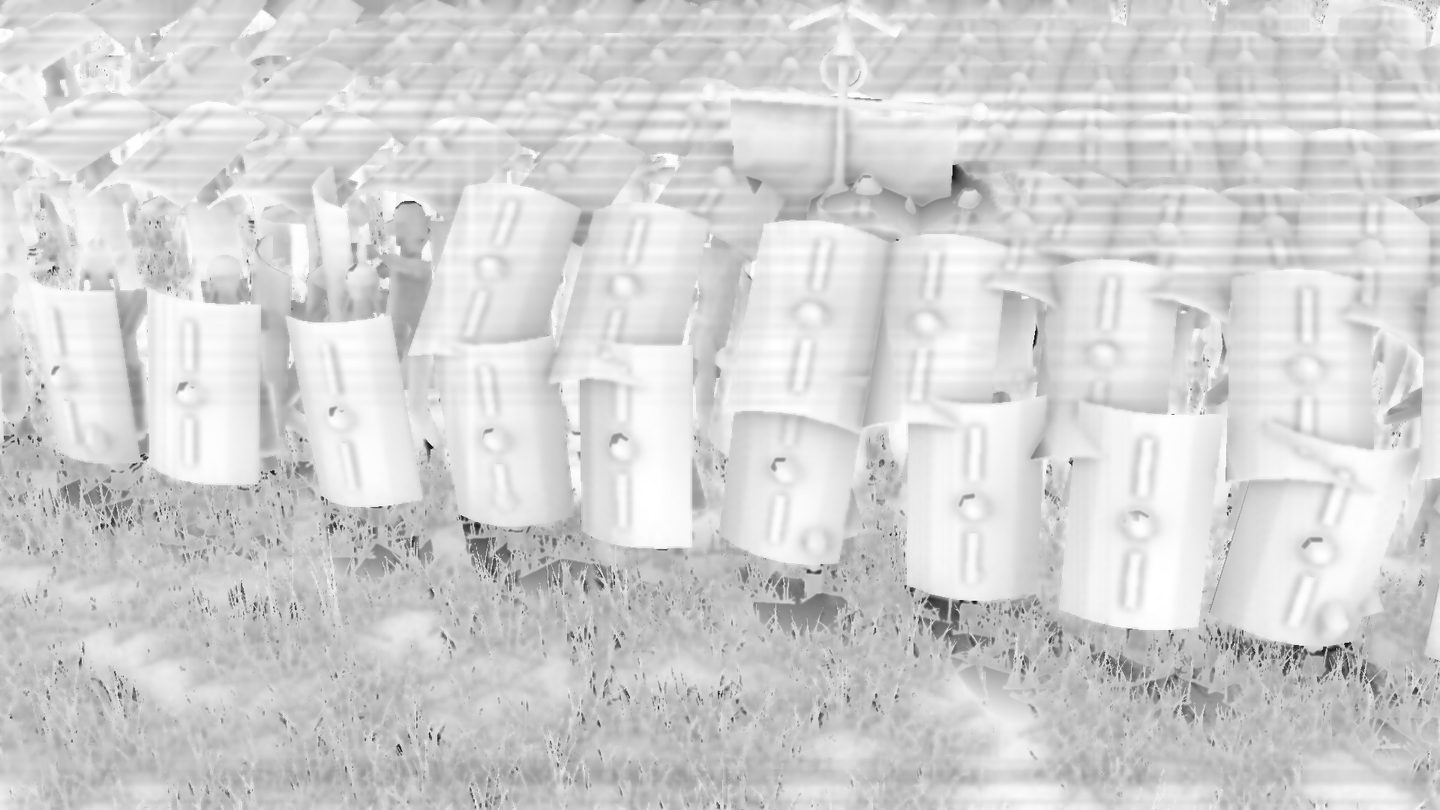
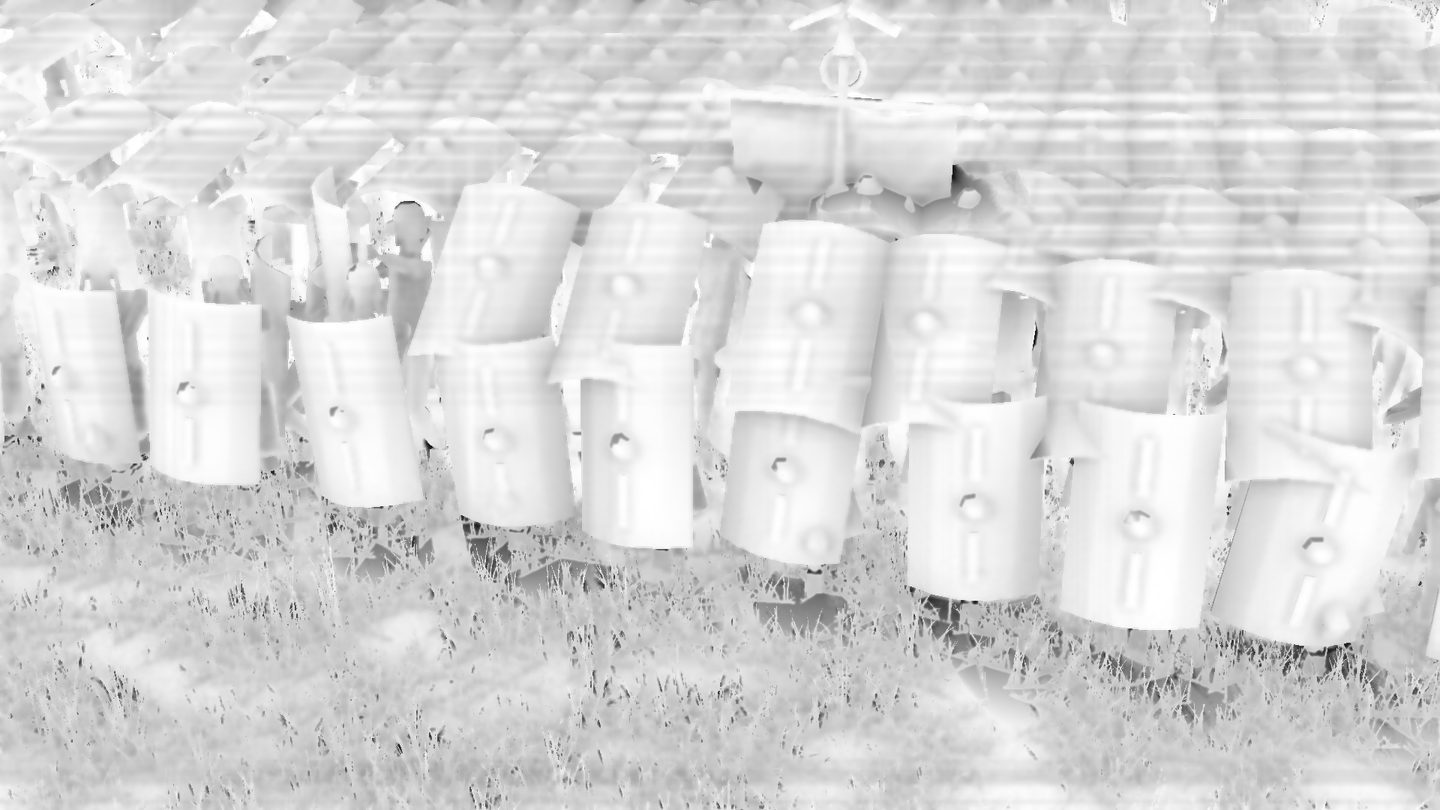
docs(render): the ladder re-read at the shipped strength, and the buffer plates with it
The sweep table was quoted from the run that chose the number; this is the same ladder
re-measured on the tree as it ships, with the foliage-guard experiment out of it, at both the
close station and the §H one. The occlusion-buffer plates are regenerated from the same run,
so the "after" plate is now the shipped 5.0 rather than the 4.0 the choosing run happened to
save.

diff --git a/docs/tech/CONTACT-AND-WEIGHT.md b/docs/tech/CONTACT-AND-WEIGHT.md
@@ -57,12 +57,14 @@ The buffer settles it. `--arms=view` at `roof-close`, 320 shields filling the fr
 The left-hand plate is white from edge to edge. Measured on the buffer itself
 (`--arms=sweep`, which reports its percentiles):
 
-| contact strength | 5th pct | median | share under 0.7 |
-|---|---|---|---|
-| **0** — the pipeline as it stood | **0.70** | 0.85 | 5.0 % |
-| 2.2 | 0.65 | 0.85 | 8.2 % |
-| **5.0** — shipped | **0.44** | 0.84 | 25 % |
-| 7.0 | 0.31 | 0.82 | 29 % |
+| contact strength | 5th pct | median | share under 0.7 | share under 0.5 |
+|---|---|---|---|---|
+| **0** — the pipeline as it stood | **0.698** | 0.851 | 5.0 % | 0.9 % |
+| 2.2 | 0.651 | 0.855 | 8.2 % | 1.2 % |
+| **5.0** — shipped | **0.439** | 0.835 | 22.9 % | 8.1 % |
+| 7.0 | 0.306 | 0.824 | 28.7 % | 14.9 % |
+
+Same ladder at `front-eye`, the §H station: 0.663 → 0.628 → **0.467** → 0.349.
 
 The critics were right and the source reader would have been wrong.
 
